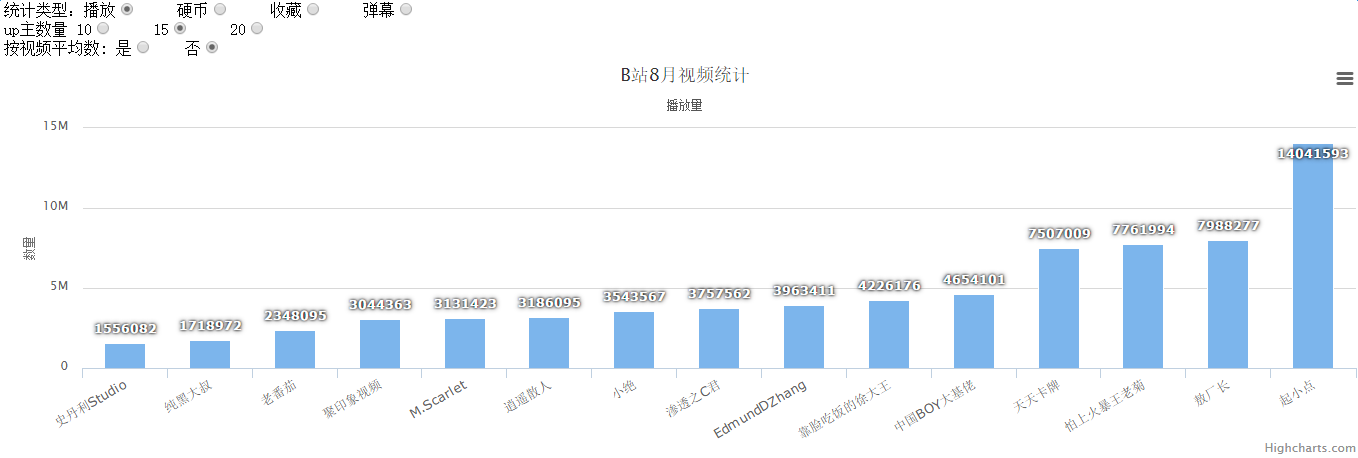
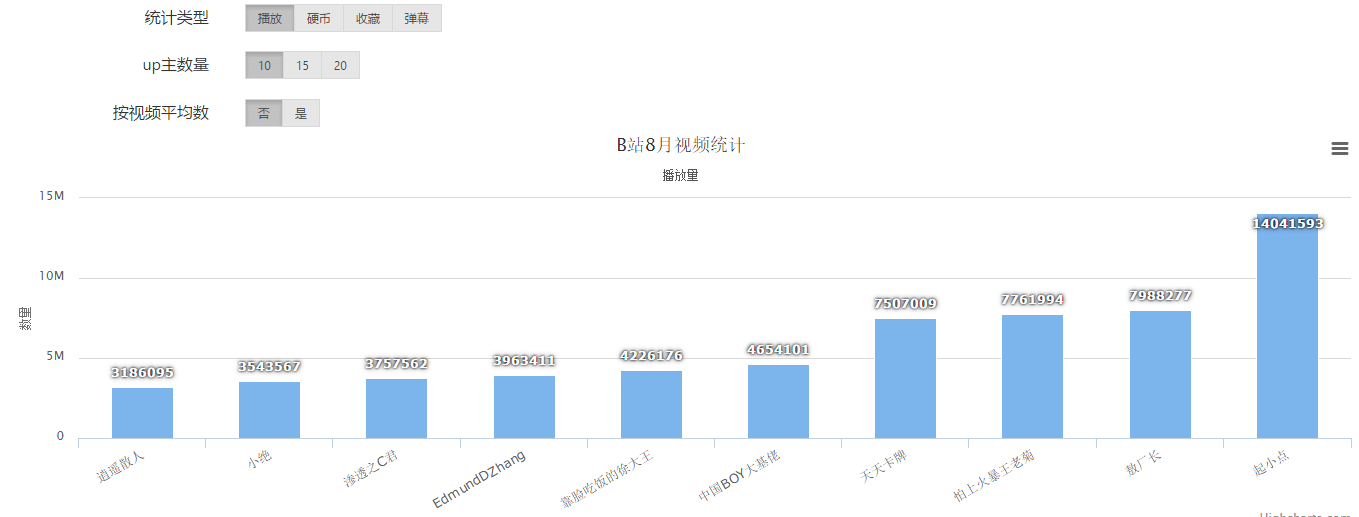
Amaze UI 美化界面

diff --git a/bilibili/show.html b/bilibili/show.html
@@ -1,6 +1,8 @@
 <html>
 <meta http-equiv="Content-Type" content="text/html; charset=utf-8" />
- <script src="http://code.jquery.com/jquery-1.9.1.js"></script>
+<script src="http://code.jquery.com/jquery-1.9.1.js"></script>
+<link rel="stylesheet" href="http://cdn.amazeui.org/amazeui/2.7.2/css/amazeui.min.css">
+
 <script type='text/javascript'>
 
 function run(order,limit,average) {
@@ -62,30 +64,75 @@ function run(order,limit,average) {
 
 <script src="https://code.highcharts.com/highcharts.js"></script>
 <script src="https://code.highcharts.com/modules/exporting.js"></script>
-统计类型：播放<input type="radio" name="order" value="play" />&nbsp;&nbsp;
-硬币<input type="radio" name="order" value="coin"/>&nbsp;&nbsp;
-收藏<input type="radio" name="order" value="collect"/>&nbsp;&nbsp;
-弹幕<input type="radio" name="order" value="danmu"/>
 
-<br>up主数量
-10<input type="radio" name="limit" value="10"/>&nbsp;&nbsp;
-15<input type="radio" name="limit" value="15"/>&nbsp;&nbsp;
-20<input type="radio" name="limit" value="20"/>
 
-<br>
-按视频平均数: 是<input type="radio" name="average" value="1"> &nbsp; 否<input type="radio" name="average" value="0" checked>
+<div class="am-g am-margin-top">
+            <div class="am-u-sm-4 am-u-md-2 am-text-right">统计类型</div>
+            <div class="am-u-sm-8 am-u-md-10">
+              <div class="am-btn-group" data-am-button="">
+                <label class="am-btn am-btn-default am-btn-xs am-active" vName="order" vValue="play">
+                  <input type="radio" name="order" value="play"> 播放
+                </label>
+                <label class="am-btn am-btn-default am-btn-xs" vName="order" vValue="coin">
+                  <input type="radio" name="order" value="coin"> 硬币
+                </label>
+                <label class="am-btn am-btn-default am-btn-xs" vName="order" vValue="collect">
+                  <input type="radio" name="order" value="collect"> 收藏
+                </label>
+				<label class="am-btn am-btn-default am-btn-xs" vName="order" vValue="danmu">
+                  <input type="radio" name="order" value="danmu"> 弹幕
+                </label>
+              </div>
+            </div>
+</div>
+
+<div class="am-g am-margin-top">
+            <div class="am-u-sm-4 am-u-md-2 am-text-right">up主数量</div>
+            <div class="am-u-sm-8 am-u-md-10">
+              <div class="am-btn-group" data-am-button="">
+                <label class="am-btn am-btn-default am-btn-xs am-active" vName="limit" vValue="10">
+                  <input type="radio" name="limit" value="10"> 10
+                </label>
+                <label class="am-btn am-btn-default am-btn-xs" vName="limit" vValue="15">
+                  <input type="radio" name="limit" value="15"> 15
+                </label>
+                <label class="am-btn am-btn-default am-btn-xs" vName="limit" vValue="20">
+                  <input type="radio" name="limit" value="20"> 20
+                </label>
+              </div>
+            </div>
+</div>
+
+<div class="am-g am-margin-top">
+            <div class="am-u-sm-4 am-u-md-2 am-text-right">按视频平均数</div>
+            <div class="am-u-sm-8 am-u-md-10">
+              <div class="am-btn-group" data-am-button="">
+                <label class="am-btn am-btn-default am-btn-xs am-active" vName="average" vValue="0">
+                  <input type="radio" name="average" value="0"> 否
+                </label>
+                <label class="am-btn am-btn-default am-btn-xs" vName="average" vValue="1">
+                  <input type="radio" name="average" value="1"> 是
+                </label>
+              </div>
+            </div>
+</div>
+
 
 <script type="text/javascript">
 $(function(){
-	$("input").click(function(){
-		var order = $("input[name='order']:checked").val();
-		var limit = $("input[name='limit']:checked").val();
-		var average = $("input[name='average']:checked").val();
+	$(".am-btn-xs").change(function(){
+		$(this).siblings().removeClass("am-active");
+		$(this).addClass("am-active");
+		var order = $("label[vName='order'].am-active").attr("vValue");
+		var limit = $("label[vName='limit'].am-active").attr("vValue");
+		var average = $("label[vName='average'].am-active").attr("vValue");
 		
 		if(order !='' && limit!='' ){
 			run(order,limit,average);
 		}
 	});
+	
+	run("play",10,0);
 });
 </script>
 <div id="container" style="min-width: 310px; height: 400px; margin: 0 auto"></div>

diff --git a/biliOnline.py b/biliOnline.py
@@ -25,7 +25,7 @@ def run():
     except:
         msg = "执行出错"
     finally:
-        print("当前时间{0} {1}".format(workTime,msg))    
+        print("当前时间{0} {1}".format(datetime.datetime.now(),msg))    
 
     #循环定时执行
     global t    #Notice: use global variable!
